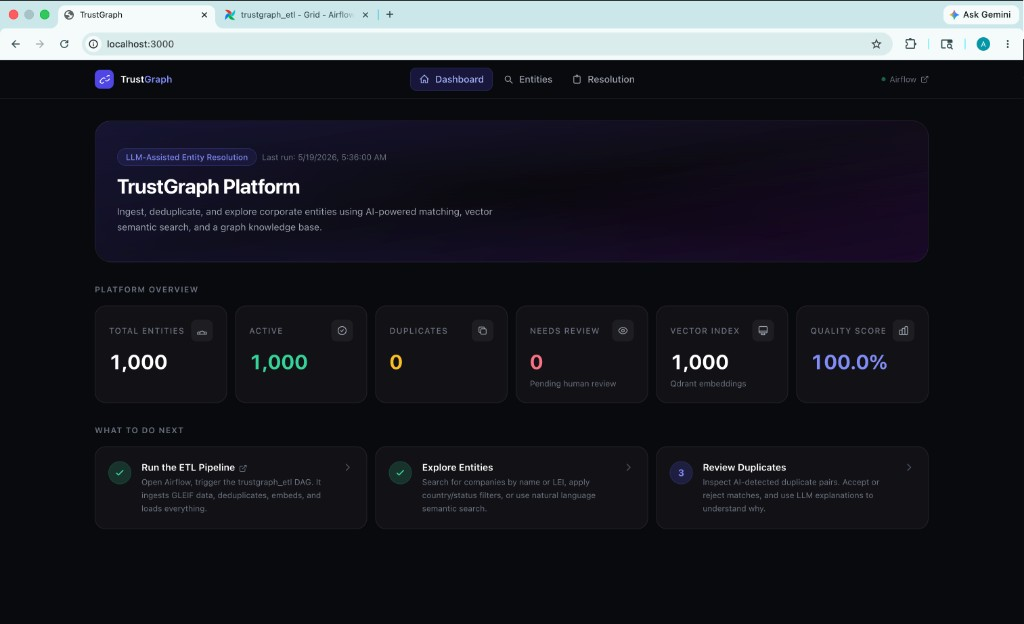
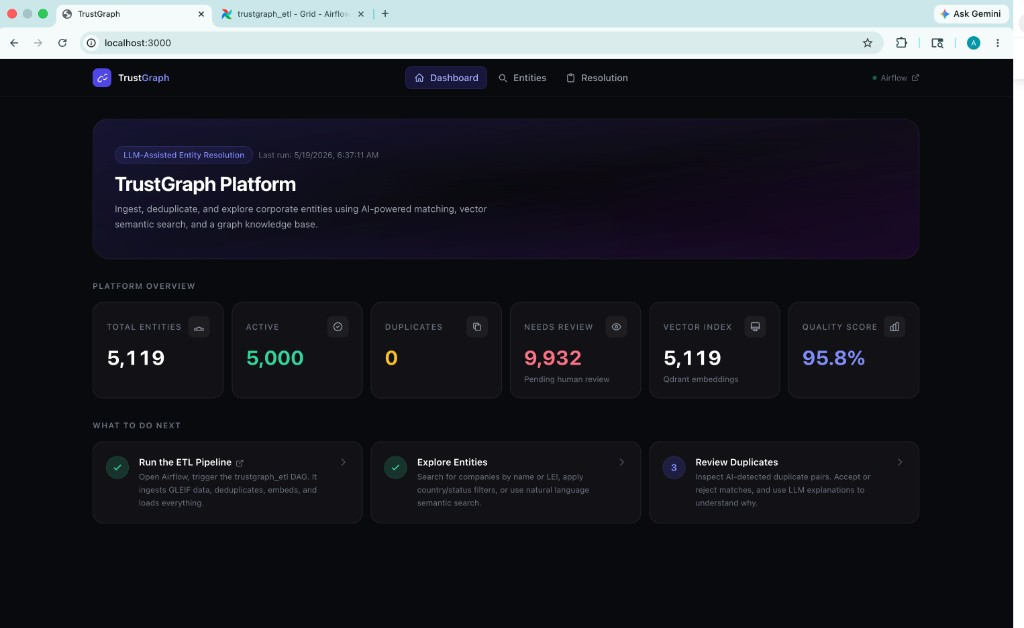
fixes

diff --git a/README.md b/README.md
@@ -127,6 +127,14 @@ The Next.js frontend gives a live view of pipeline metrics, entity search, graph
 
 ![TrustGraph Dashboard](assets/ui-dashboard.png)
 
+**Natural-language entity search** — query like *"active commercial lenders in Canada"* is parsed by the LLM into structured filters, hits Qdrant, and returns results with an inline knowledge graph view.
+
+![Entity Search](assets/ui-entity-search.png)
+
+**Resolution review queue** — side-by-side duplicate comparison with per-signal similarity bars and an LLM-generated plain-English explanation. Analyst accepts or rejects with one click.
+
+![Resolution Review](assets/ui-resolution.png)
+
 ---
 
 ## How to run
